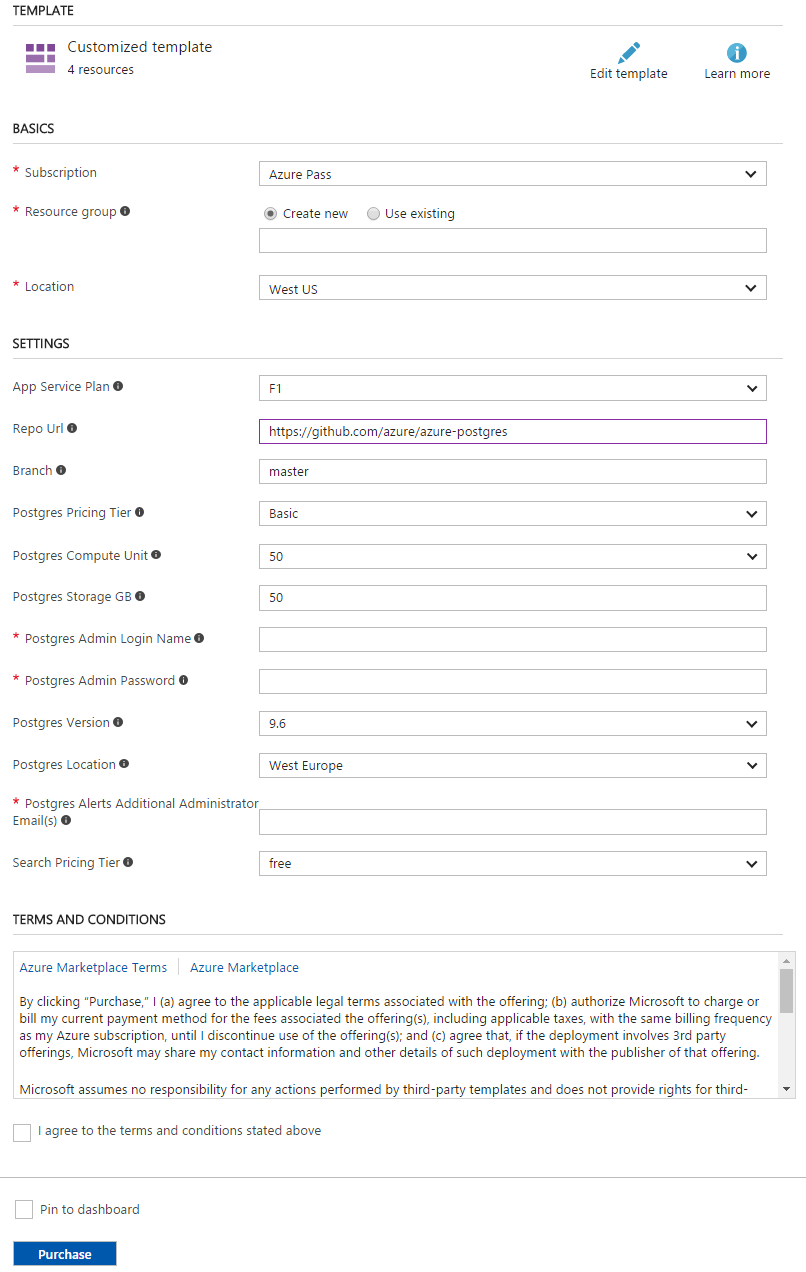
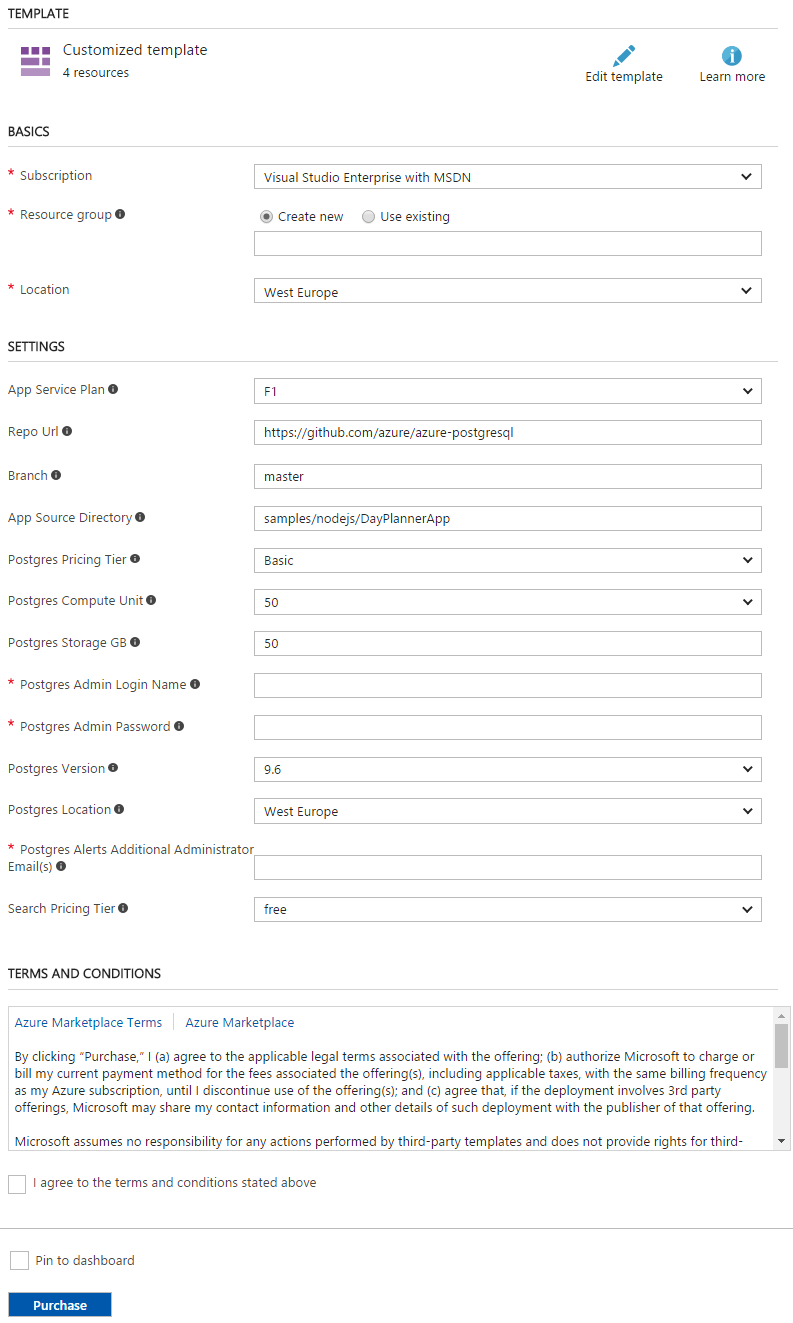
updates for source code in sub-directory

diff --git a/samples/nodejs/DayPlannerApp/docs/DeploymentInstructions.md b/samples/nodejs/DayPlannerApp/docs/DeploymentInstructions.md
@@ -12,7 +12,8 @@ Perform following steps to Deploy Node.js web application in Azure and connect i
 4. Select __Location__ from the available locations for resource group.
 5. Select __App Service Plan__. It is pricing model for hosting application, default value is set to __F1__ which represent free service.
 6. The __Repo Url__ is the GitHub repository url of web application. The default value is set to the current GitHub repository Url which contains sample Node.js application source code which connects with AzureDB for PostgreSQL Service and Azure Search service created with the ARM template. Leave it as is for this demo
-7. This __Branch__ is branch name of GitHub repository where code resides, leave it as is for this demo.
+7. This __Branch__ is branch name of GitHub repository where application resides, leave it as is for this demo.
+8. __App Source Directory__ is application source code directory in the GitHub repository to deploy on Azure App Service.
 
     ![](img/azure-deploy.png)
 
